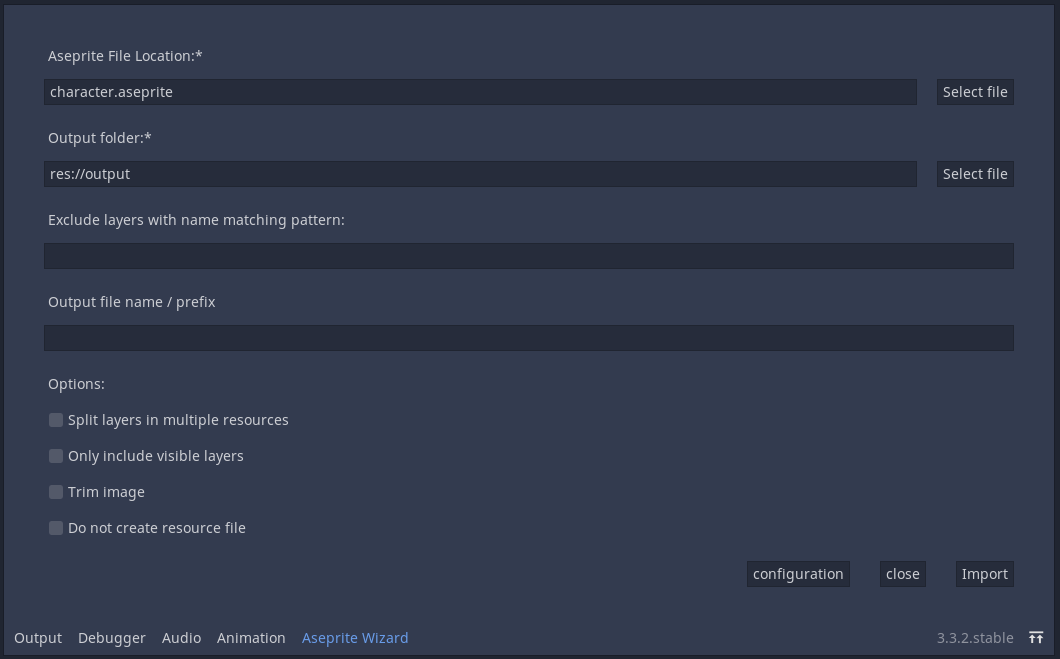
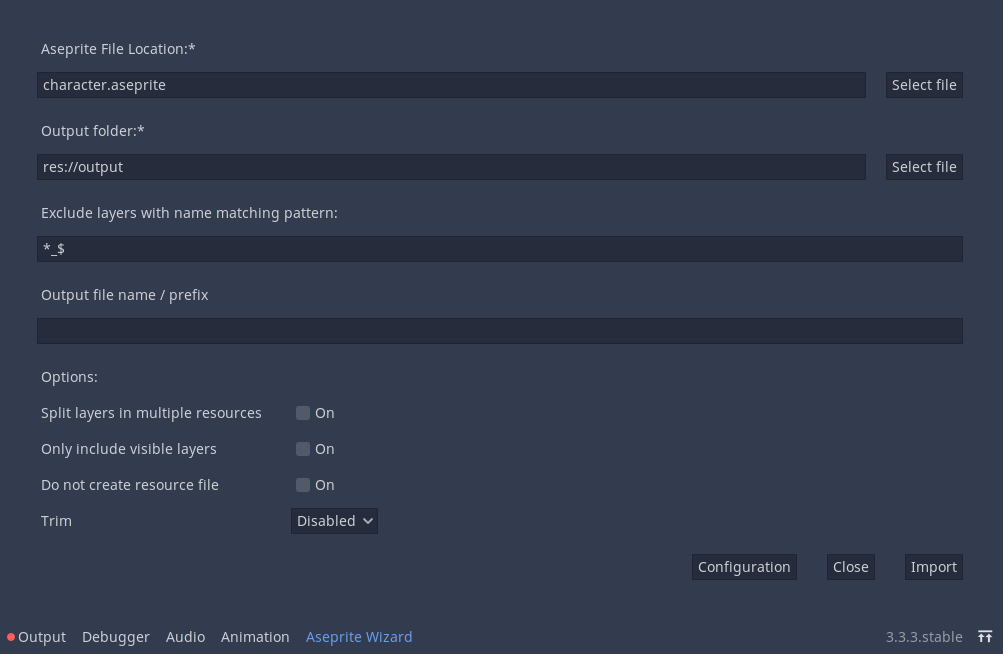
v2.1.0

diff --git a/README.md b/README.md
@@ -63,7 +63,7 @@ __Note: Currently, files created in the importer are bigger than the ones create
 | Exclude layers matching pattern: | Do not export layers that match the pattern defined. i.e `_draft$` excludes all layers ending with `_draft`. Uses Godot's [Regex implementation](https://docs.godotengine.org/en/stable/classes/class_regex.html)  |
 | Split layers in multiple resource: | If selected, each layer will be exported as a separated resource (e.g my_layer_1.res, layer_name_2.res, ...). If not selected, all layers will be merged and exported as a single resource file with same base name as source.  |
 | Only include visible layers | If selected it only includes in the image file the layers visible in Aseprite. If not selected, all layers are exported, regardless of visibility.|
-| Trim image | Removes padding from sprites/layers/cels before saving them. |
+| Trim | Removes padding from sprites/layers before saving them. Modes: **Trim:** trim empty space around content. **Trim by grid:** trim empty tiles respecting Aseprite's configured grid.|
 
 Wizard-only options:
 

diff --git a/CHANGELOG.md b/CHANGELOG.md
@@ -2,6 +2,21 @@
 
 This project adheres to [Semantic Versioning](https://semver.org/spec/v2.0.0.html)
 
+## 2.1.0 (2021-10-17)
+
+## Added
+
+- Added `Trim by grid` option, which trims empty tiles respecting Aseprite's configured grid.
+
+## Changed
+
+- Wizard option list consistent to Godot's options.
+
+## Thanks
+
+- Thanks to @aaaaaaaaargh for adding the `Trim by grid` option.
+
+
 ## 2.0.0 (2021-07-31)
 
 ## Breaking Changes
